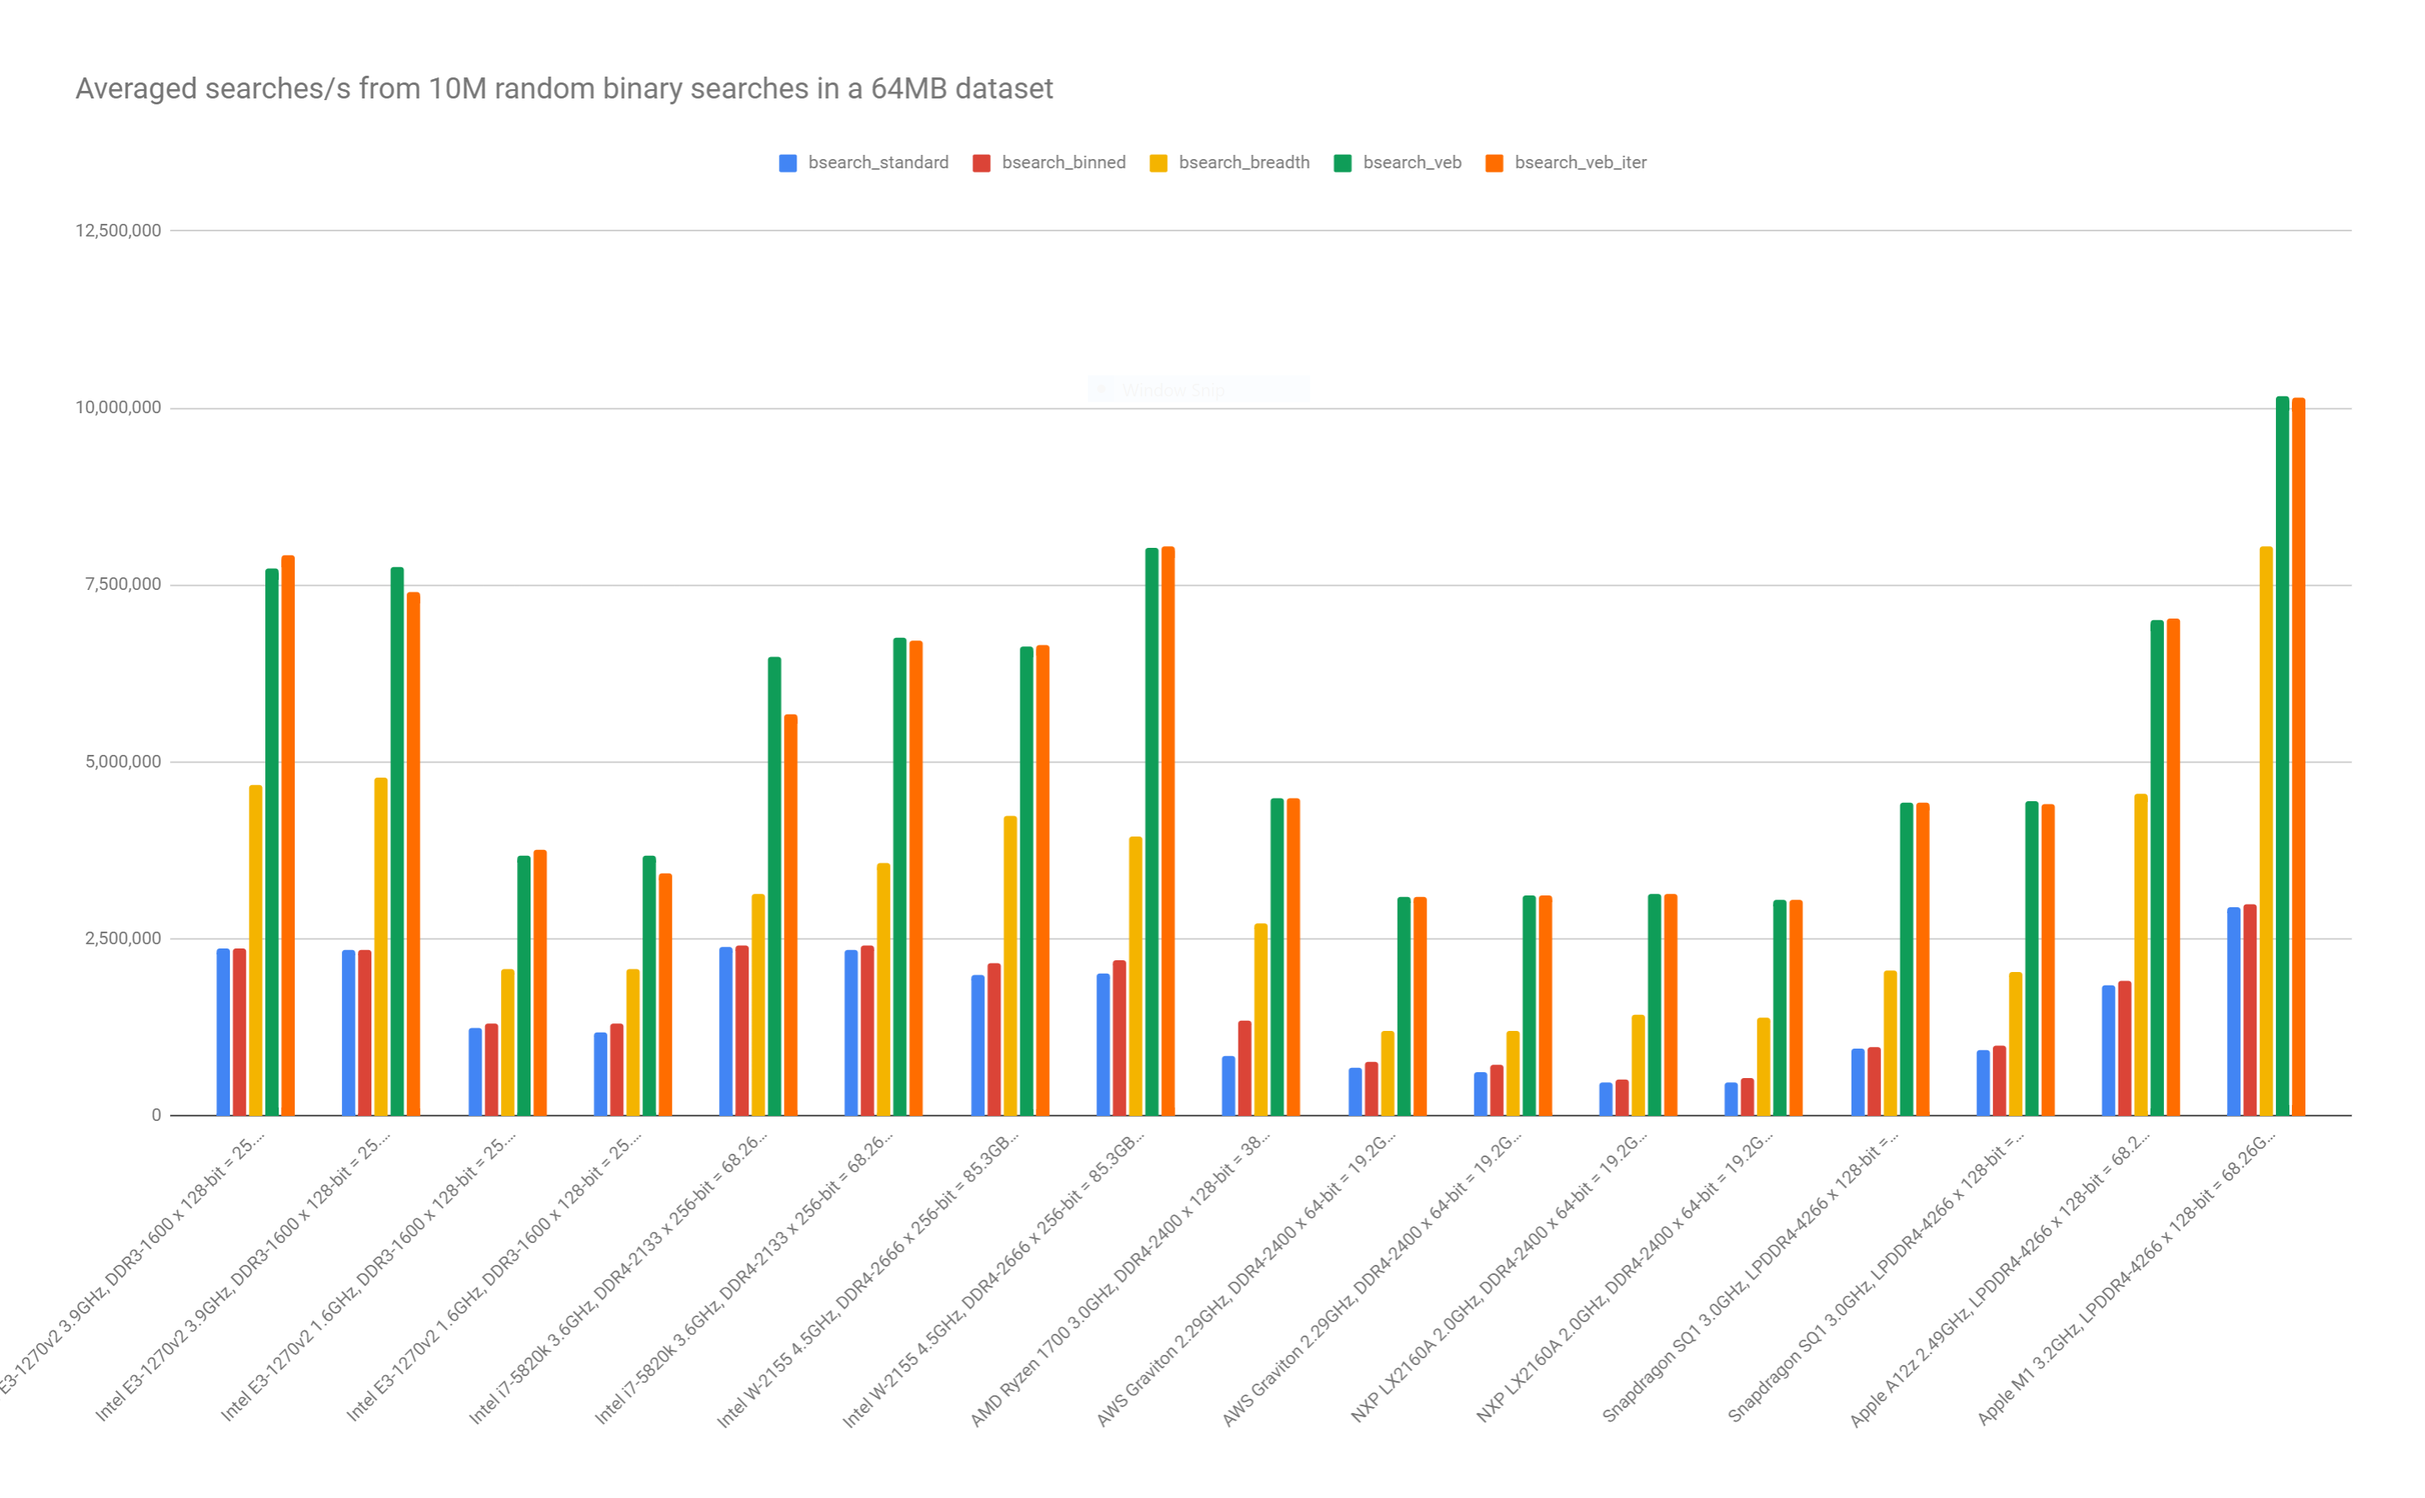
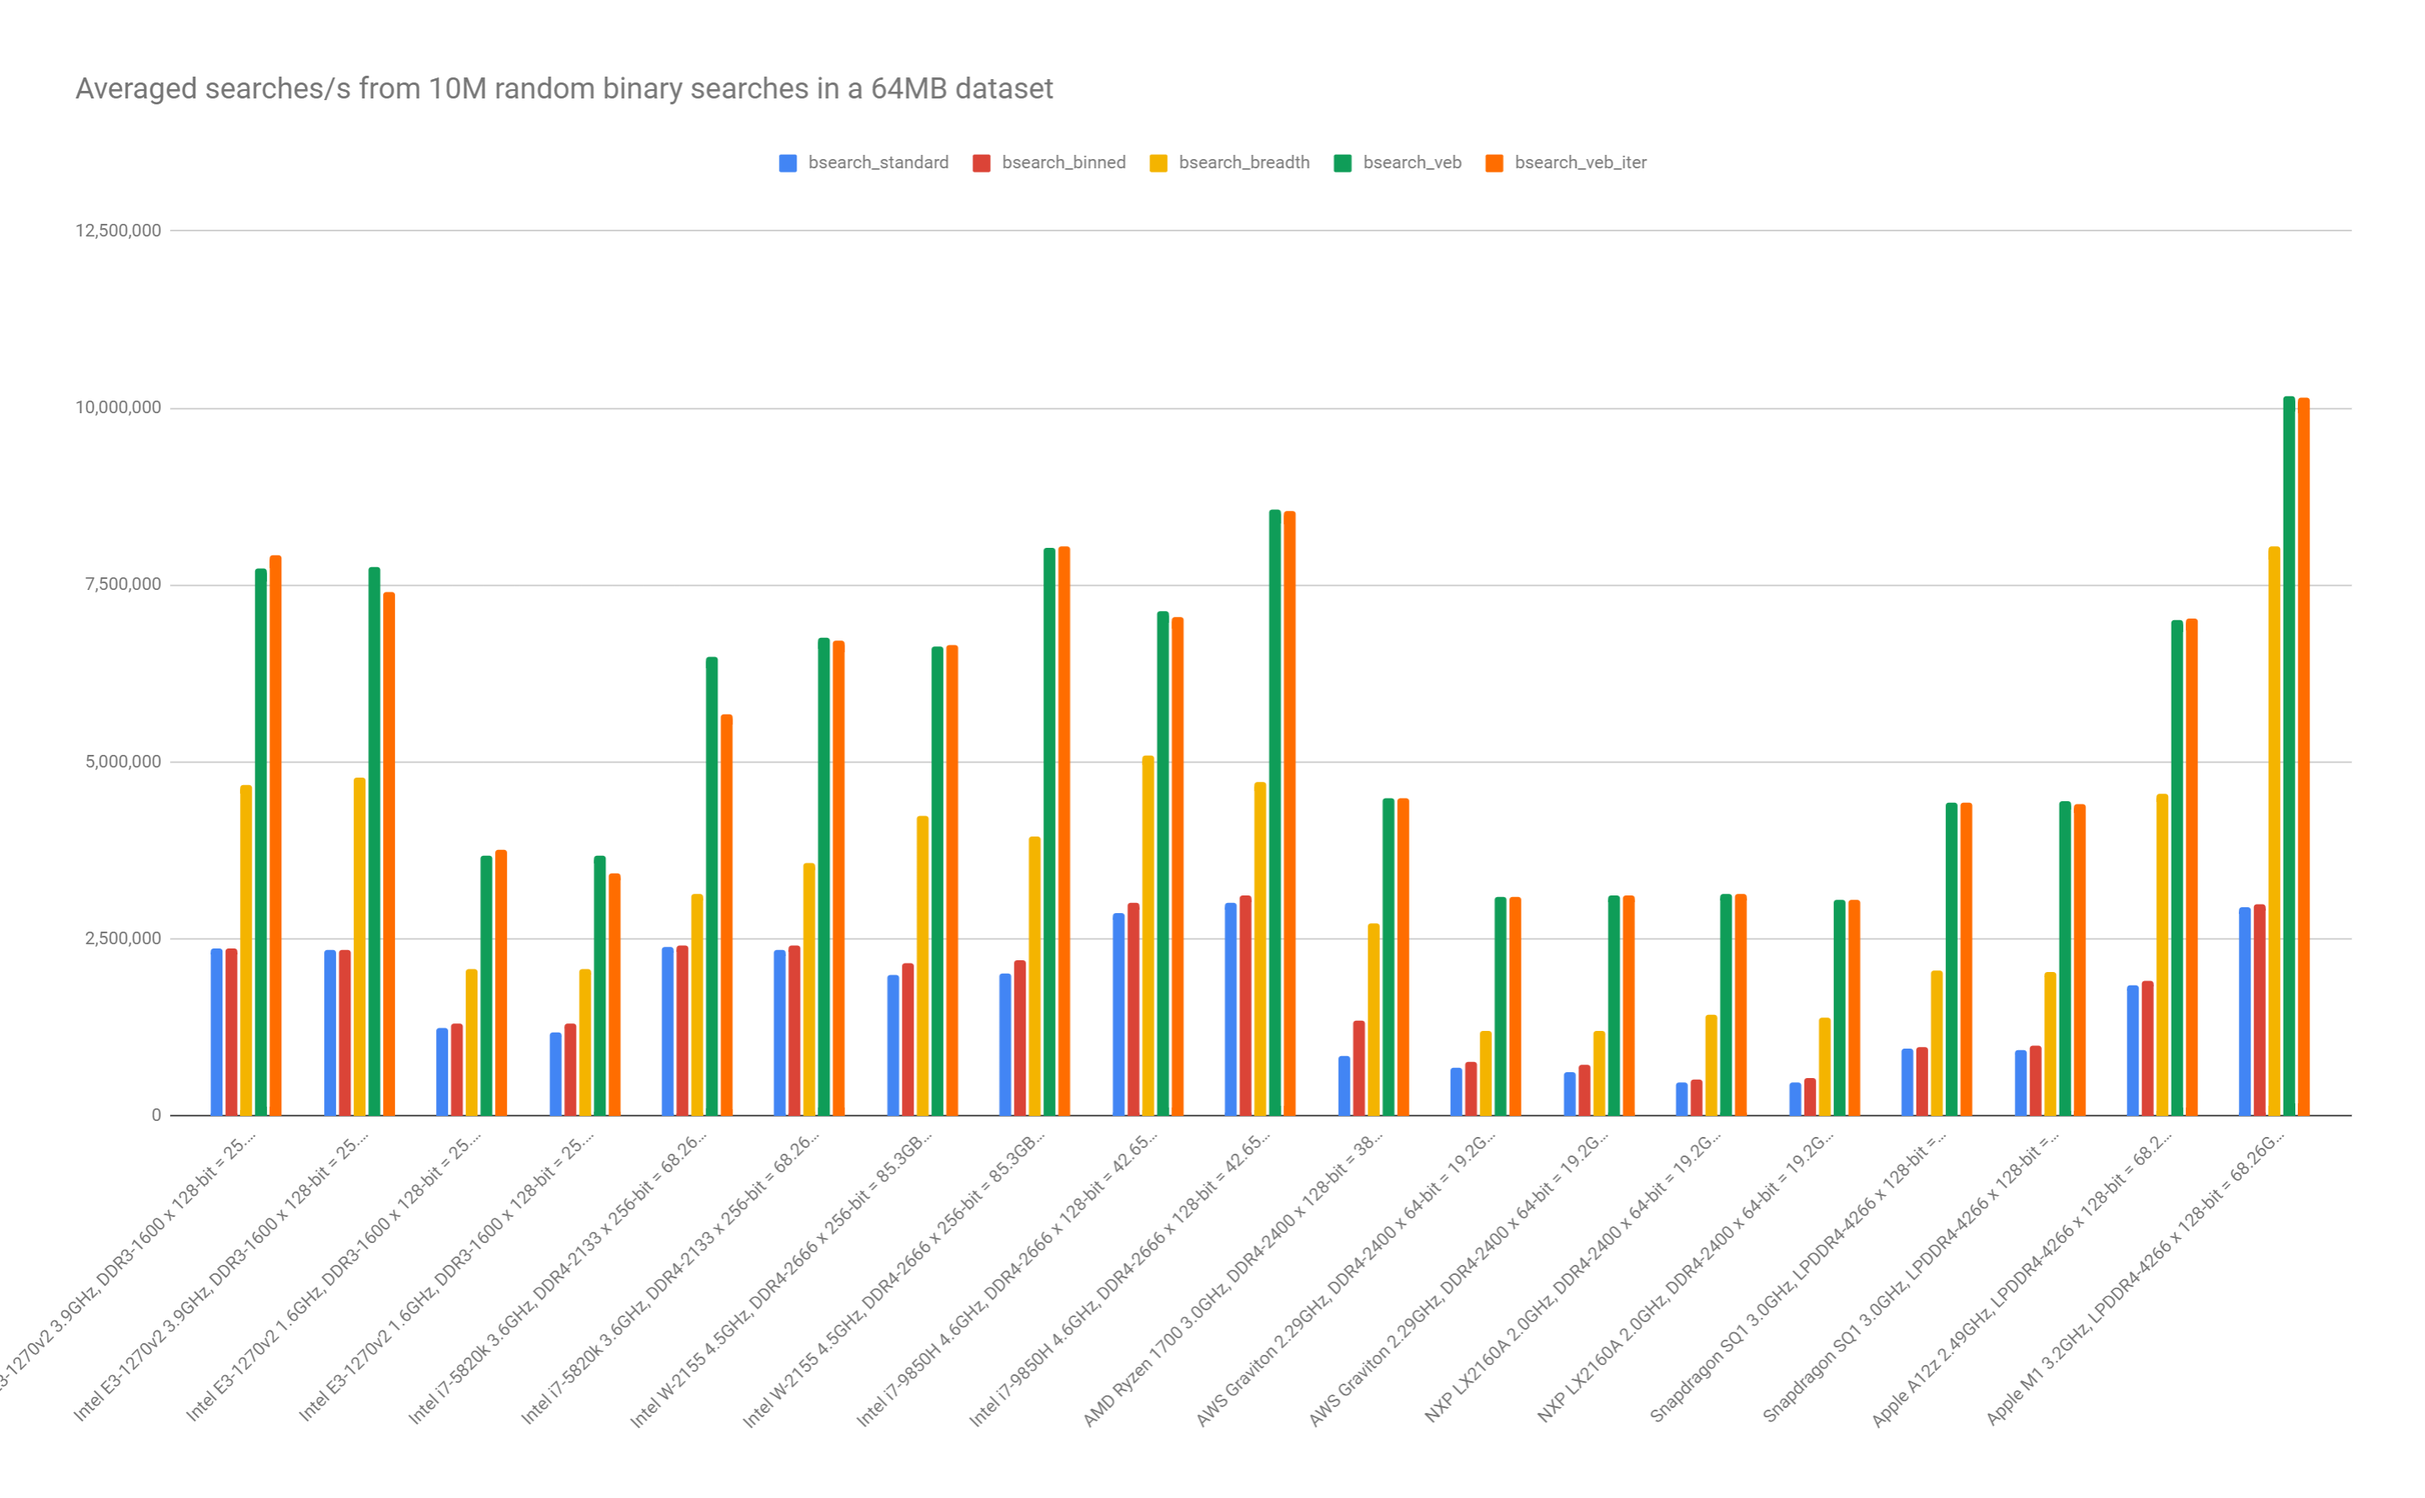
add i7-9850h results to readme

diff --git a/README.md b/README.md
@@ -62,6 +62,8 @@ Averaged searches/second from 10M random binary searches in a 64MB dataset -- se
 | Intel i7-5820k 3.6GHz, DDR4-2133 x 256-bit = 68.26GB/s, clang++-7.0.1        |        2,350,576 |        2,407,037 |        3,565,783 |        6,747,819 |        6,723,463 |
 | Intel W-2155 4.5GHz, DDR4-2666 x 256-bit = 85.3GB/s, g++-10.2                |        1,988,754 |        2,163,868 |        4,237,943 |        6,622,578 |        6,646,915 |
 | Intel W-2155 4.5GHz, DDR4-2666 x 256-bit = 85.3GB/s, clang++-10.0            |        2,004,589 |        2,206,814 |        3,950,995 |        8,030,376 |        8,045,392 |
+| Intel i7-9850H 4.6GHz, DDR4-2666 x 128-bit = 42.65GB/s, g++-9.3.0            |        2,865,838 |        3,008,460 |        5,091,687 |        7,120,814 |        7,047,737 |
+| Intel i7-9850H 4.6GHz, DDR4-2666 x 128-bit = 42.65GB/s, clang++-10.0.0       |        3,018,475 |        3,120,316 |        4,714,052 |        8,569,367 |        8,548,059 |
 | AMD Ryzen 1700 3.0GHz, DDR4-2400 x 128-bit = 38.4GB/s, g++-9.3.0             |          855,529 |        1,348,926 |        2,727,316 |        4,492,173 |        4,478,647 |
 | Mediatek MT8173C 2.1GHz, LPDDR3-1600 x 64-bit = 12.8GB/s, g++-8.1.0, A64     |          490,095 |          526,391 |          744,652 |        2,035,683 |        2,031,427 |
 | Mediatek MT8173C 2.1GHz, LPDDR3-1600 x 64-bit = 12.8GB/s, clang++-5, A64     |          505,499 |          526,628 |          724,331 |        2,051,007 |        2,052,157 |
